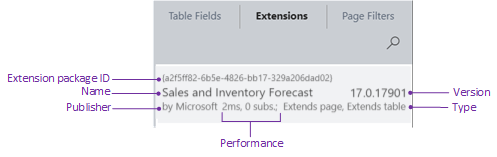
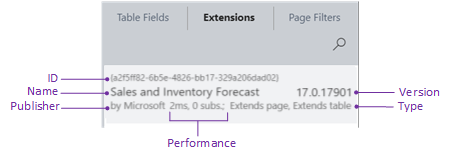
Bug397390 page inspection (#2632)

Changed region(s): [[0.0, 0.0, 0.9978, 0.8662], [0.3742, 0.8662, 0.5924, 0.9427], [0.7171, 0.3057, 0.7483, 0.3312]]

diff --git a/dev-itpro/developer/devenv-inspecting-pages.md b/dev-itpro/developer/devenv-inspecting-pages.md
@@ -118,6 +118,12 @@ The **Extensions** tab displays installed extensions that affect the selected pa
 
 Except for the type and performance information, the data that's shown is defined in the extension's app.json file, which is configured during development. For more information, see [App.json](devenv-json-files.md#Appjson).
 
+The **ID**, which is sometimes referred to as AppID, is a 32-digit unique identifier, which is useful when identifying extensions and debugging issues.
+
+> [!NOTE]
+> In Business Central 2021 release wave 1 (version 18) and earlier, the **ID** is the ID assigned to the extension package (.app file), not the extension itself.
+
+
 #### Type
 
 There are four different extension types:
